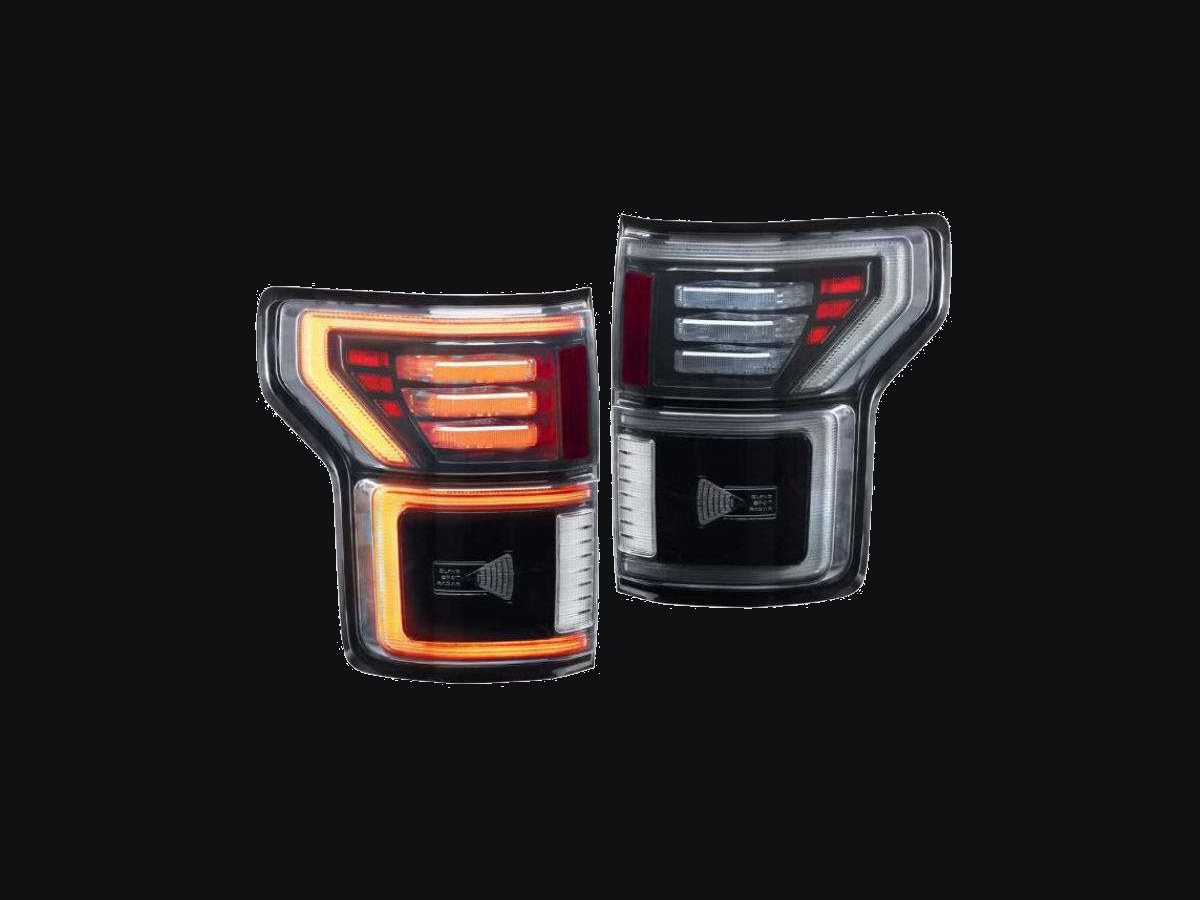
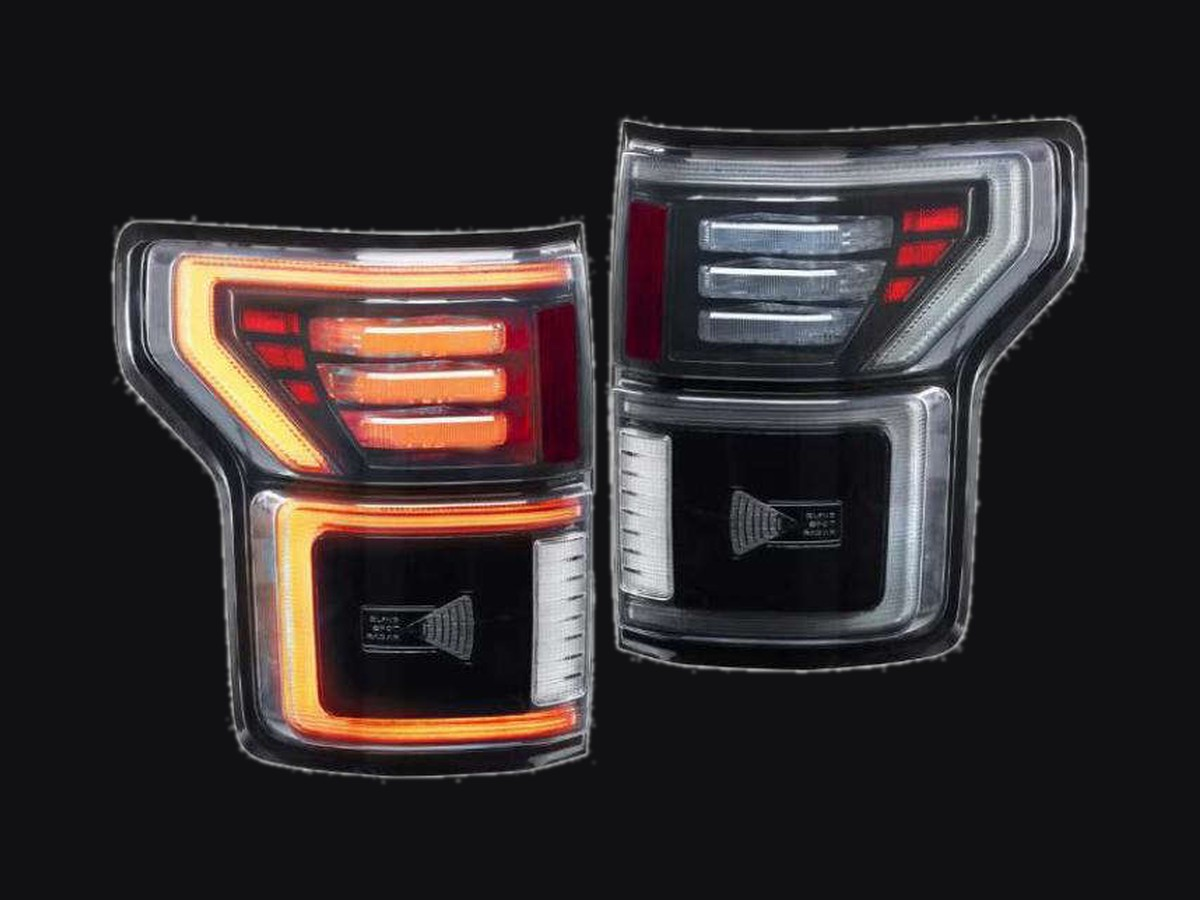
Unify product image treatment; wire cards to real CO product pages
Images: all product shots now share one canvas (1200x900), one ground tone,
one product-scale envelope (~82% of frame) and an anti-aliased alpha edge.
Previously tires read as full-bleed close-ups while wheels read as small
floating objects, because CO ships tire shots as deliberate cut-off crops.
Now any side where a product ran off the source frame gets an inward alpha
ramp, so it fades into the card instead of ending on a hard line. Interior
white (chrome highlights, sidewall lettering) is preserved - only white
connected to the frame border is treated as background.

Links: replaced the placeholder homepage hrefs with verified CO URLs.
 - 3 wheels  -> /buy-wheel-offset/{SKU}/{slug}
 - 3 tires   -> /buy-wheel-offset2/{SKU}/{slug}-tires
 - brand pages for Fuel Rebel 6, Factory Reproductions, ARKON OFF-ROAD,
   BFGoodrich KO3, Nitto Trail Grappler, KelFire DMR RT
 - category pages for suspension, exhaust, performance, tuners, lighting,
   seat covers, and wheel/tire packages
Each URL was checked for HTTP 200 AND a product-specific <title>, since CO
soft-404s return 200 with a generic title. The SKUs were already on the
cards, which is what made the product URLs constructible.

Dropped the now-satisfied TK_LINK badges from the six wheel/tire SKU lines.

Also removed the <br> in the "Finished by Sunday night." heading so it sets
on one line, wrapping only if the viewport forces it.

Three cards keep homepage links (Rough Country Vertex, both Coverking seat
[…]

diff --git a/index.html b/index.html
@@ -228,7 +228,7 @@
   <div class="wrap">
     <div class="rv">
       <div class="kicker">You win</div>
-      <h2 class="display">Finished by<br><span class="red">Sunday night.</span></h2>
+      <h2 class="display">Finished by <span class="red">Sunday night.</span></h2>
       <p class="lede" style="margin-top:20px">
         Zero shop bills all weekend. The whole build went together in a driveway with at-home tools, and
         <span class="tk">TK_SAVINGS</span> in labor stayed in your pocket and went straight back into parts.
@@ -353,7 +353,9 @@
      STILL PLACEHOLDERS, no CO product page matched them: part-suspension.jpg (Rough Country
      Vertex 2.5 RR 2in), part-tuner.jpg (Holley Flashcal - sold off-site), part-seats-front.jpg
      and part-seats-rear.jpg (Coverking Skanda), and the three pkg-*.jpg package cards (the
-     package pages carry no combined setup photo). Drop matching files in at the same names. -->
+     package pages carry no combined setup photo). Drop matching files in at the same names.
+     Those same three products are also the only cards whose "View Product" button still points
+     at the CO homepage - every other card link is a verified product, brand or category page. -->
 <section class="sec parts" id="parts">
   <div class="wrap wrap--wide">
     <div class="rv">
@@ -388,7 +390,7 @@
           <div class="pcard__price num">$1,299.95</div>
           <div class="pcard__acts">
             <a class="a1" href="https://www.customwheeloffset.com/" target="_blank" rel="noopener">View Product</a>
-            <a class="a2" href="https://www.customwheeloffset.com/" target="_blank" rel="noopener">Shop Suspension</a>
+            <a class="a2" href="https://www.customwheeloffset.com/store/suspension" target="_blank" rel="noopener">Shop Suspension</a>
           </div>
         </div>
       </article>
@@ -403,7 +405,7 @@
           <div class="pcard__price num">$3,691.32</div>
           <div class="pcard__acts">
             <a class="a1" href="https://www.customwheeloffset.com/buy-wheel-offset2/D68020908950/BFG44461/fuel-rebel-6-20x9-1-bfgoodrich-all-terrain-t-a-ko3-lt295-60r20?vehicle_type=Truck&amp;year=2018&amp;make=Ford&amp;model=F-150&amp;trim=Lariat&amp;drive=4WD&amp;modification=Minor+Plastic+Trimming&amp;rubbing=No+rubbing+or+scrubbing&amp;suspension=Leveling+Kit" target="_blank" rel="noopener">View Package</a>
-            <a class="a2" href="https://www.customwheeloffset.com/" target="_blank" rel="noopener">Shop Packages</a>
+            <a class="a2" href="https://www.customwheeloffset.com/wheels-tires" target="_blank" rel="noopener">Shop Packages</a>
           </div>
         </div>
       </article>
@@ -418,7 +420,7 @@
           <div class="pcard__price num">$4,291.04</div>
           <div class="pcard__acts">
             <a class="a1" href="https://www.customwheeloffset.com/buy-wheel-offset2/52295443601/205610/factory-reproductions-fr52-22x95-44-nitto-trail-grappler-35x1250r22lt?vehicle_type=Truck&amp;year=2018&amp;make=Ford&amp;model=F-150&amp;trim=Lariat&amp;drive=4WD&amp;modification=Minor+Plastic+Trimming&amp;rubbing=No+rubbing+or+scrubbing&amp;suspension=Leveling+Kit" target="_blank" rel="noopener">View Package</a>
-            <a class="a2" href="https://www.customwheeloffset.com/" target="_blank" rel="noopener">Shop Packages</a>
+            <a class="a2" href="https://www.customwheeloffset.com/wheels-tires" target="_blank" rel="noopener">Shop Packages</a>
           </div>
         </div>
       </article>
@@ -433,7 +435,7 @@
           <div class="pcard__price num">$3,476.16</div>
           <div class="pcard__acts">
             <a class="a1" href="https://www.customwheeloffset.com/buy-wheel-offset2/K14922208945/1912002333/arkon-off-road-caesar-22x12-51-kelfire-dmr-rt-33x1250r22lt?vehicle_type=Truck&amp;year=2018&amp;make=Ford&amp;model=F-150&amp;trim=Lariat&amp;drive=4WD&amp;modification=Minor+Plastic+Trimming&amp;rubbing=No+rubbing+or+scrubbing&amp;suspension=Leveling+Kit" target="_blank" rel="noopener">View Package</a>
-            <a class="a2" href="https://www.customwheeloffset.com/" target="_blank" rel="noopener">Shop ARKON OFF-ROAD</a>
+            <a class="a2" href="https://www.customwheeloffset.com/brands/wheels/ARKON+OFF-ROAD" target="_blank" rel="noopener">Shop ARKON OFF-ROAD</a>
           </div>
         </div>
       </article>
@@ -444,11 +446,11 @@
           <div class="pcard__brand">Fuel Off-Road</div>
           <div class="pcard__t">Rebel 6 20x9 +1mm</div>
           <p class="pcard__p">The narrowest wheel of the three and the only 20in in the group. An offset of +1mm puts backspacing at about 5in, close to factory and the least demanding on fenders and geometry.</p>
-          <div class="pcard__sku">D68020908950 . <span class="tk">TK_LINK</span></div>
+          <div class="pcard__sku">D68020908950</div>
           <div class="pcard__price num">$399.00 <span class="pcard__ea">each</span></div>
           <div class="pcard__acts">
-            <a class="a1" href="https://www.customwheeloffset.com/" target="_blank" rel="noopener">View Product</a>
-            <a class="a2" href="https://www.customwheeloffset.com/" target="_blank" rel="noopener">Shop Wheels</a>
+            <a class="a1" href="https://www.customwheeloffset.com/buy-wheel-offset/D68020908950/fuel-rebel-6-20x9-1" target="_blank" rel="noopener">View Product</a>
+            <a class="a2" href="https://www.customwheeloffset.com/brands/wheels/Fuel/Rebel+6" target="_blank" rel="noopener">Shop Rebel 6</a>
           </div>
         </div>
       </article>
@@ -459,11 +461,11 @@
           <div class="pcard__brand">Factory Reproductions</div>
           <div class="pcard__t">FR52 22x9.5 +44mm</div>
           <p class="pcard__p">A factory style face in a 22in diameter at a tucked +44mm, which works out to about 7in of backspacing. This is the wheel that lets a 35in tire look intentional and stay inside the fender line.</p>
-          <div class="pcard__sku">52295443601 . <span class="tk">TK_LINK</span></div>
+          <div class="pcard__sku">52295443601</div>
           <div class="pcard__price num">$475.00 <span class="pcard__ea">each</span></div>
           <div class="pcard__acts">
-            <a class="a1" href="https://www.customwheeloffset.com/" target="_blank" rel="noopener">View Product</a>
-            <a class="a2" href="https://www.customwheeloffset.com/" target="_blank" rel="noopener">Shop Wheels</a>
+            <a class="a1" href="https://www.customwheeloffset.com/buy-wheel-offset/52295443601/factory-reproductions-fr52-22x95-44" target="_blank" rel="noopener">View Product</a>
+            <a class="a2" href="https://www.customwheeloffset.com/brands/wheels/Factory+Reproductions" target="_blank" rel="noopener">Shop Factory Reproductions</a>
           </div>
         </div>
       </article>
@@ -474,11 +476,11 @@
           <div class="pcard__brand">ARKON OFF-ROAD</div>
           <div class="pcard__t">Caesar 22x12 -51mm</div>
           <p class="pcard__p">Twelve inches wide at -51mm, or about 4.5in of backspacing. This is the aggressive end of the range and the single part here that changes the truck most from fifty feet away.</p>
-          <div class="pcard__sku">K14922208945 . <span class="tk">TK_LINK</span></div>
+          <div class="pcard__sku">K14922208945</div>
           <div class="pcard__price num">$599.00 <span class="pcard__ea">each</span></div>
           <div class="pcard__acts">
-            <a class="a1" href="https://www.customwheeloffset.com/" target="_blank" rel="noopener">View Product</a>
-            <a class="a2" href="https://www.customwheeloffset.com/" target="_blank" rel="noopener">Shop ARKON OFF-ROAD</a>
+            <a class="a1" href="https://www.customwheeloffset.com/buy-wheel-offset/K14922208945/arkon-off-road-caesar-22x12-51" target="_blank" rel="noopener">View Product</a>
+            <a class="a2" href="https://www.customwheeloffset.com/brands/wheels/ARKON+OFF-ROAD" target="_blank" rel="noopener">Shop ARKON OFF-ROAD</a>
           </div>
         </div>
       </article>
@@ -489,11 +491,11 @@
           <div class="pcard__brand">BFGoodrich</div>
           <div class="pcard__t">All-Terrain T/A KO3, LT295/60R20</div>
           <p class="pcard__p">A metric size that works out to roughly 34in tall. The all-terrain that does not make you accept road noise as the price of tread, and the most comfortable of the three on a daily commute.</p>
-          <div class="pcard__sku">BFG44461 . <span class="tk">TK_LINK</span></div>
+          <div class="pcard__sku">BFG44461</div>
           <div class="pcard__price num">$523.83 <span class="pcard__ea">each</span></div>
           <div class="pcard__acts">
-            <a class="a1" href="https://www.customwheeloffset.com/" target="_blank" rel="noopener">View Product</a>
-            <a class="a2" href="https://www.customwheeloffset.com/" target="_blank" rel="noopener">Shop Tires</a>
+            <a class="a1" href="https://www.customwheeloffset.com/buy-wheel-offset2/BFG44461/bfgoodrich-all-terrain-t-a-ko3-lt295-60r20-tires" target="_blank" rel="noopener">View Product</a>
+            <a class="a2" href="https://www.customwheeloffset.com/brands/tires/BFGoodrich/All+Terrain+T-A+KO3" target="_blank" rel="noopener">Shop KO3</a>
           </div>
         </div>
       </article>
@@ -504,11 +506,11 @@
           <div class="pcard__brand">Nitto</div>
           <div class="pcard__t">Trail Grappler, 35x12.50R22LT</div>
           <p class="pcard__p">A true 35in mud terrain and the tallest tire we ran all weekend. The 35s fill the fender gap the lift opens up, and they change the stance the moment they are on.</p>
-          <div class="pcard__sku">205610 . <span class="tk">TK_LINK</span></div>
+          <div class="pcard__sku">205610</div>
           <div class="pcard__price num">$597.76 <span class="pcard__ea">each</span></div>
           <div class="pcard__acts">
-            <a class="a1" href="https://www.customwheeloffset.com/" target="_blank" rel="noopener">View Product</a>
-            <a class="a2" href="https://www.customwheeloffset.com/" target="_blank" rel="noopener">Shop Tires</a>
+            <a class="a1" href="https://www.customwheeloffset.com/buy-wheel-offset2/205610/nitto-trail-grappler-35x1250r22lt-tires" target="_blank" rel="noopener">View Product</a>
+            <a class="a2" href="https://www.customwheeloffset.com/brands/tires/Nitto/Trail+Grappler" target="_blank" rel="noopener">Shop Trail Grappler</a>
           </div>
         </div>
       </article>
@@ -519,11 +521,11 @@
           <div class="pcard__brand">Kelfire</div>
           <div class="pcard__t">DMR R/T, 33x12.50R22LT</div>
           <p class="pcard__p">A rugged terrain that splits the difference between an all-terrain and a mud terrain. At 33in it is the shortest of the three, which is what keeps a 12 wide wheel workable.</p>
-          <div class="pcard__sku">1912002333 . <span class="tk">TK_LINK</span></div>
+          <div class="pcard__sku">1912002333</div>
           <div class="pcard__price num">$270.04 <span class="pcard__ea">each</span></div>
           <div class="pcard__acts">
-            <a class="a1" href="https://www.customwheeloffset.com/" target="_blank" rel="noopener">View Product</a>
-            <a class="a2" href="https://www.customwheeloffset.com/" target="_blank" rel="noopener">Shop Tires</a>
+            <a class="a1" href="https://www.customwheeloffset.com/buy-wheel-offset2/1912002333/kelfire-dmr-rt-33x1250r22lt-tires" target="_blank" rel="noopener">View Product</a>
+            <a class="a2" href="https://www.customwheeloffset.com/brands/tires/Kelfire/DMR+RT" target="_blank" rel="noopener">Shop DMR R/T</a>
           </div>
         </div>
       </article>
@@ -538,7 +540,7 @@
           <div class="pcard__price num">$1,095.00</div>
           <div class="pcard__acts">
             <a class="a1" href="https://www.customwheeloffset.com/store/performance/125513/awe-tuning-0fg-single-exit-performance-exhaust-system-45in-diamond-black-tips-15-20-ford-f-150?year=2018&amp;make=Ford&amp;model=F-150&amp;trim=Lariat&amp;drive=4WD&amp;modification=Minor+Plastic+Trimming&amp;rubbing=No+rubbing+or+scrubbing&amp;suspension=Leveling+Kit" target="_blank" rel="noopener">View Product</a>
-            <a class="a2" href="https://www.customwheeloffset.com/" target="_blank" rel="noopener">Shop Exhaust</a>
+            <a class="a2" href="https://www.customwheeloffset.com/store/performance/exhaust" target="_blank" rel="noopener">Shop Exhaust</a>
           </div>
         </div>
       </article>
@@ -553,7 +555,7 @@
           <div class="pcard__price num">$593.00</div>
           <div class="pcard__acts">
             <a class="a1" href="https://www.customwheeloffset.com/store/performance/61636/afe-power-momentum-xp-cai-system-black-w-pro-5r-filter-media-15-20-ford-f-150-50l-v8" target="_blank" rel="noopener">View Product</a>
-            <a class="a2" href="https://www.customwheeloffset.com/" target="_blank" rel="noopener">Shop Intakes</a>
+            <a class="a2" href="https://www.customwheeloffset.com/store/performance" target="_blank" rel="noopener">Shop Intakes</a>
           </div>
         </div>
       </article>
@@ -568,7 +570,7 @@
           <div class="pcard__price num">$299.95</div>
           <div class="pcard__acts">
             <a class="a1" href="https://www.holley.com/products/tuners_and_programmers/handheld_tuners/parts/1545" target="_blank" rel="noopener">View Product</a>
-            <a class="a2" href="https://www.customwheeloffset.com/" target="_blank" rel="noopener">Shop Tuners</a>
+            <a class="a2" href="https://www.customwheeloffset.com/store/performance/tuners" target="_blank" rel="noopener">Shop Tuners</a>
           </div>
         </div>
       </article>
@@ -583,7 +585,7 @@
           <div class="pcard__price num">$999.00</div>
           <div class="pcard__acts">
             <a class="a1" href="https://www.customwheeloffset.com/store/lighting/191868/morimoto-xb-hybrid-led-headlights?year=2018&amp;make=Ford&amp;model=F-150&amp;trim=Lariat&amp;drive=4WD&amp;modification=Minor+Plastic+Trimming&amp;rubbing=No+rubbing+or+scrubbing&amp;suspension=Leveling+Kit" target="_blank" rel="noopener">View Product</a>
-            <a class="a2" href="https://www.customwheeloffset.com/" target="_blank" rel="noopener">Shop Lighting</a>
+            <a class="a2" href="https://www.customwheeloffset.com/store/lighting" target="_blank" rel="noopener">Shop Lighting</a>
           </div>
         </div>
       </article>
@@ -598,7 +600,7 @@
           <div class="pcard__price num">$709.00</div>
           <div class="pcard__acts">
             <a class="a1" href="https://www.customwheeloffset.com/store/lighting/112934/morimoto-xb-led-tails-pair-smoked-15-20-ford-f-150?year=2018&amp;make=Ford&amp;model=F-150&amp;trim=Lariat&amp;drive=4WD&amp;modification=Minor+Plastic+Trimming&amp;rubbing=No+rubbing+or+scrubbing&amp;suspension=Leveling+Kit" target="_blank" rel="noopener">View Product</a>
-            <a class="a2" href="https://www.customwheeloffset.com/" target="_blank" rel="noopener">Shop Lighting</a>
+            <a class="a2" href="https://www.customwheeloffset.com/store/lighting" target="_blank" rel="noopener">Shop Lighting</a>
           </div>
         </div>
       </article>
@@ -613,7 +615,7 @@
           <div class="pcard__price num">$194.99</div>
           <div class="pcard__acts">
             <a class="a1" href="https://www.customwheeloffset.com/" target="_blank" rel="noopener">View Product</a>
-            <a class="a2" href="https://www.customwheeloffset.com/" target="_blank" rel="noopener">Shop Interior</a>
+            <a class="a2" href="https://www.customwheeloffset.com/store/interior-accessories/seats/seat-covers" target="_blank" rel="noopener">Shop Interior</a>
           </div>
         </div>
       </article>
@@ -628,7 +630,7 @@
           <div class="pcard__price num">$194.99</div>
           <div class="pcard__acts">
             <a class="a1" href="https://www.customwheeloffset.com/" target="_blank" rel="noopener">View Product</a>
-            <a class="a2" href="https://www.customwheeloffset.com/" target="_blank" rel="noopener">Shop Interior</a>
+            <a class="a2" href="https://www.customwheeloffset.com/store/interior-accessories/seats/seat-covers" target="_blank" rel="noopener">Shop Interior</a>
           </div>
         </div>
       </article>
